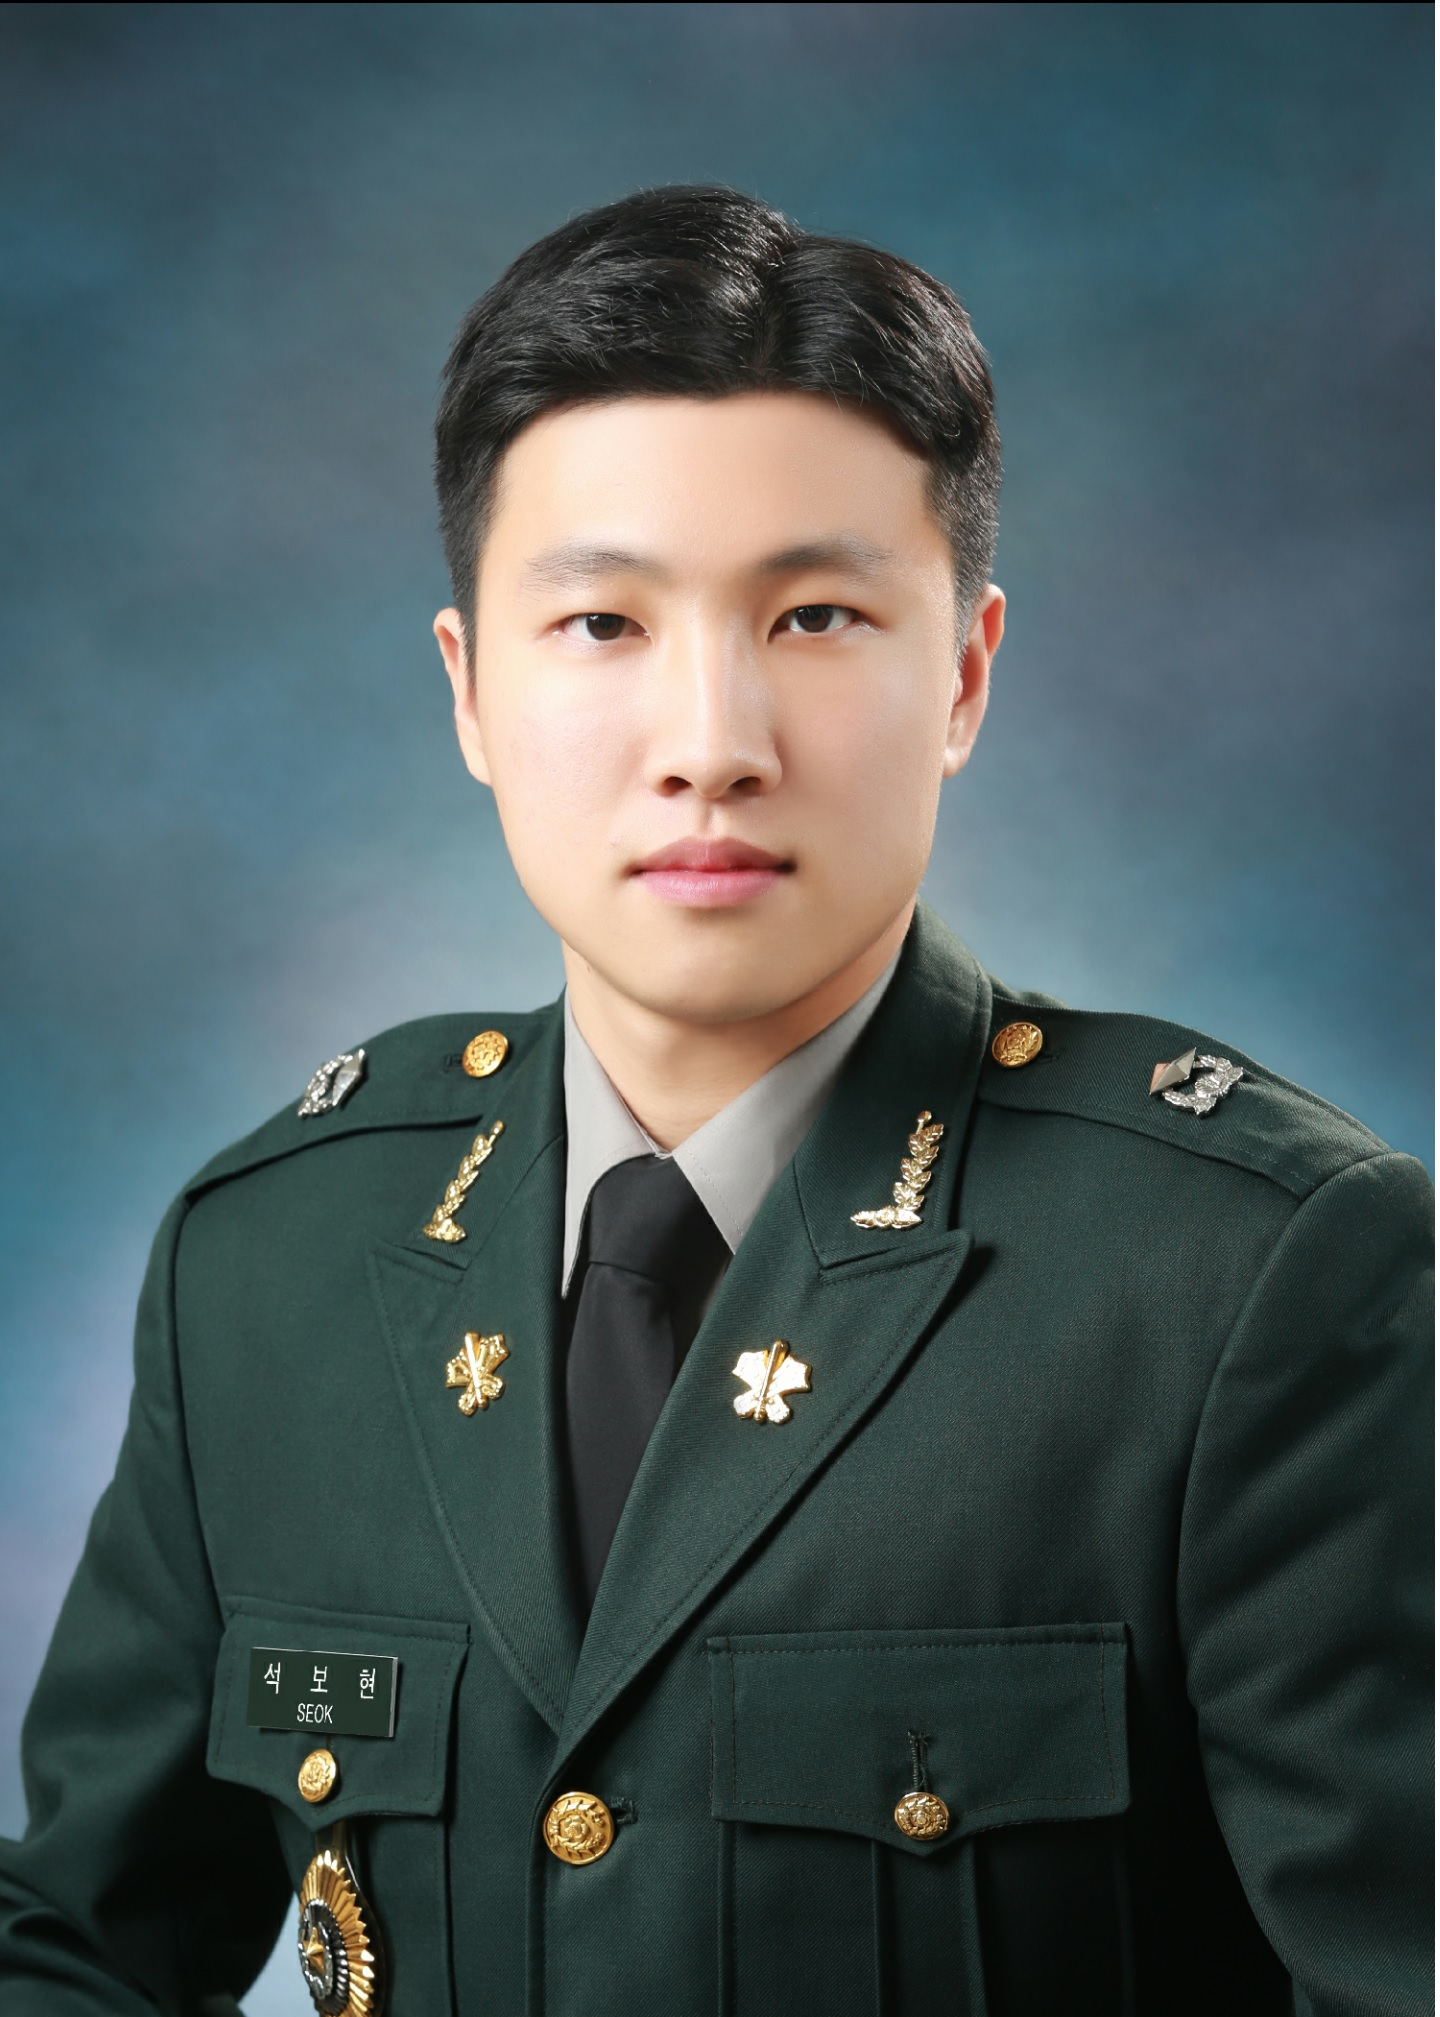
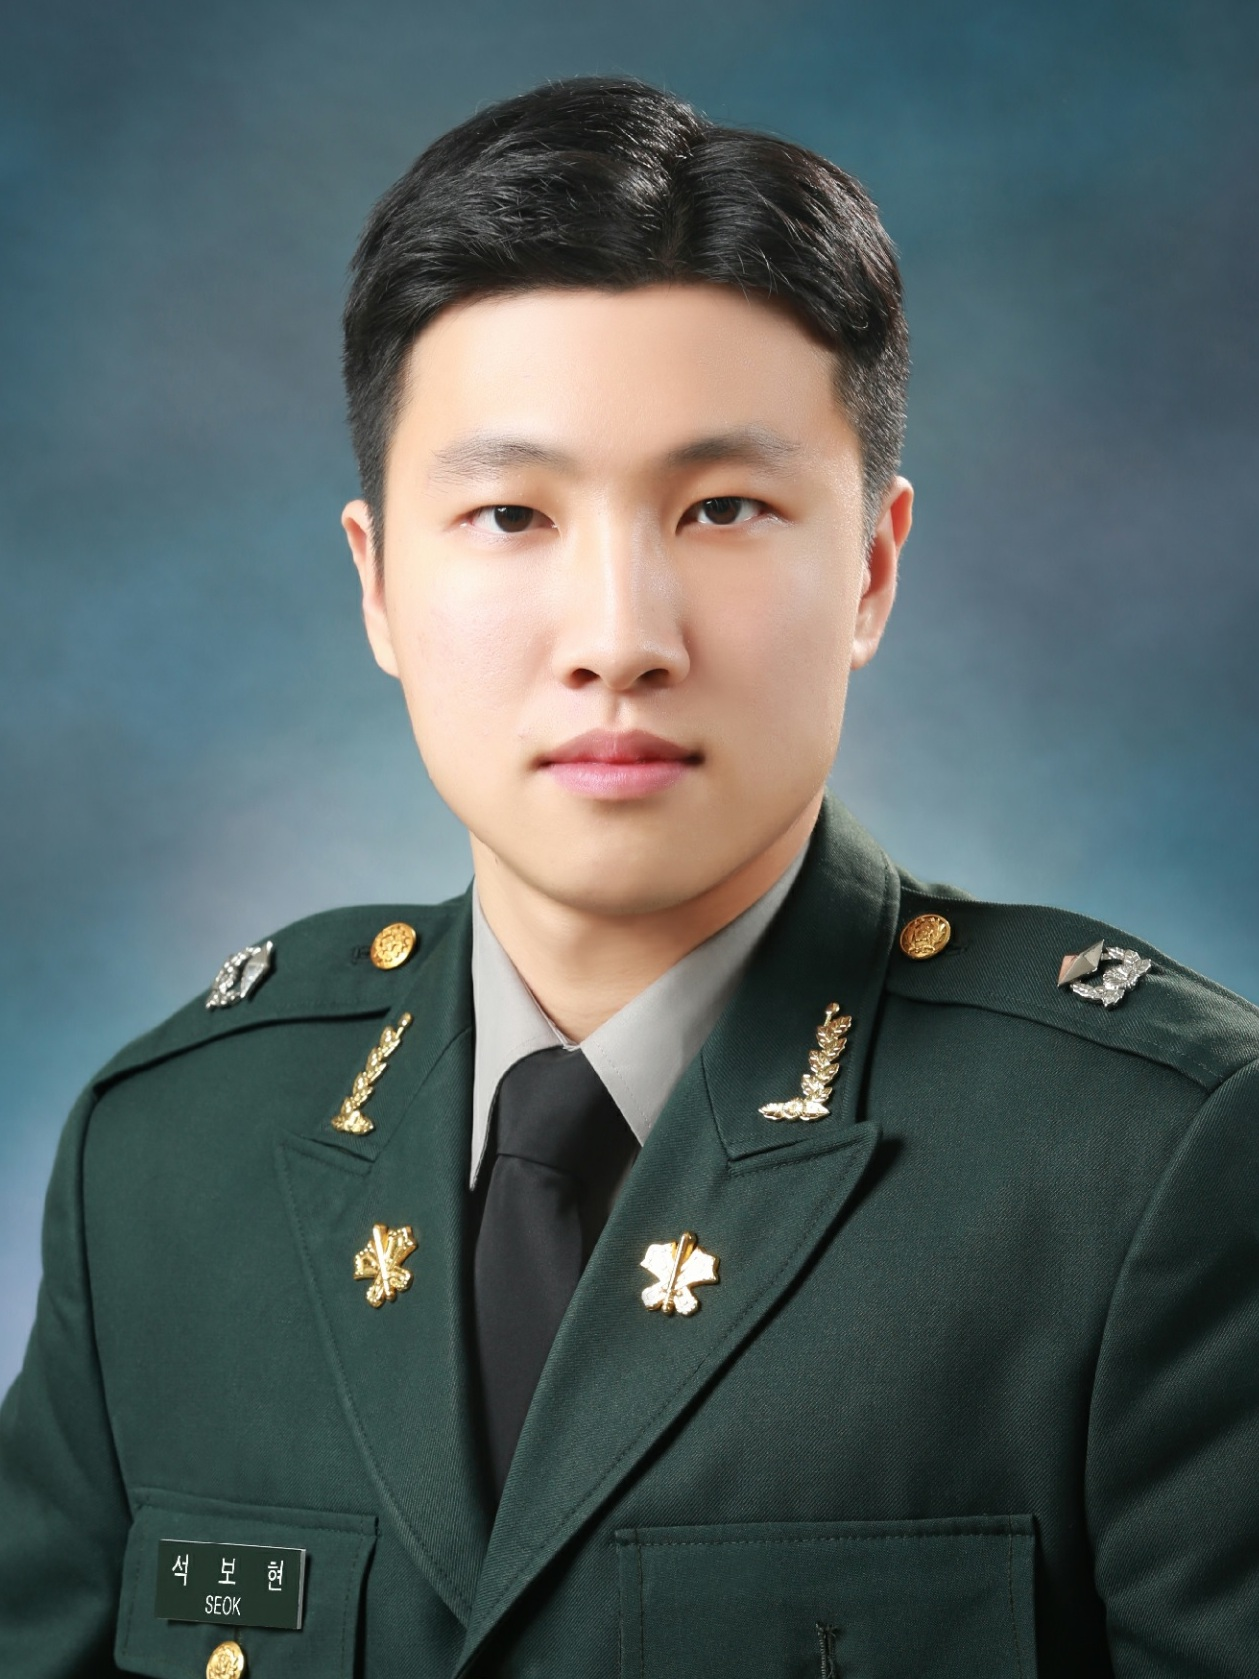
Update team members and alumni sections with new additions and transitions; standardize all images to a 3:4 aspect ratio.

diff --git a/_pages/members.md b/_pages/members.md
@@ -101,7 +101,7 @@ permalink: /members/
 <div class="col-sm-6 clearfix">
   <img src="{{ site.url }}{{ site.baseurl }}/images/members/{{ member.photo }}" class="img-responsive" width="25%" style="float: left" />
   <h4>{{ member.name }}</h4>
-  <i>{{ member.info }} <!--<br>email: <{{ member.email }}></i> -->
+  <i>{{ member.info }}</i> <!--<br>email: <{{ member.email }}></i> -->
   <ul style="overflow: hidden">
 
   {% for detail in member.details %}
@@ -130,7 +130,7 @@ permalink: /members/
 
 
 {% for member in site.data.alumni_members %}
-<div class="row">
+<div class="row" style="height: 16px">
 <div class="col-sm-12 clearfix">
   <h5>{{ member.name }} <i>{{ member.info }}</i></h5>
   <ul style="overflow: hidden">
